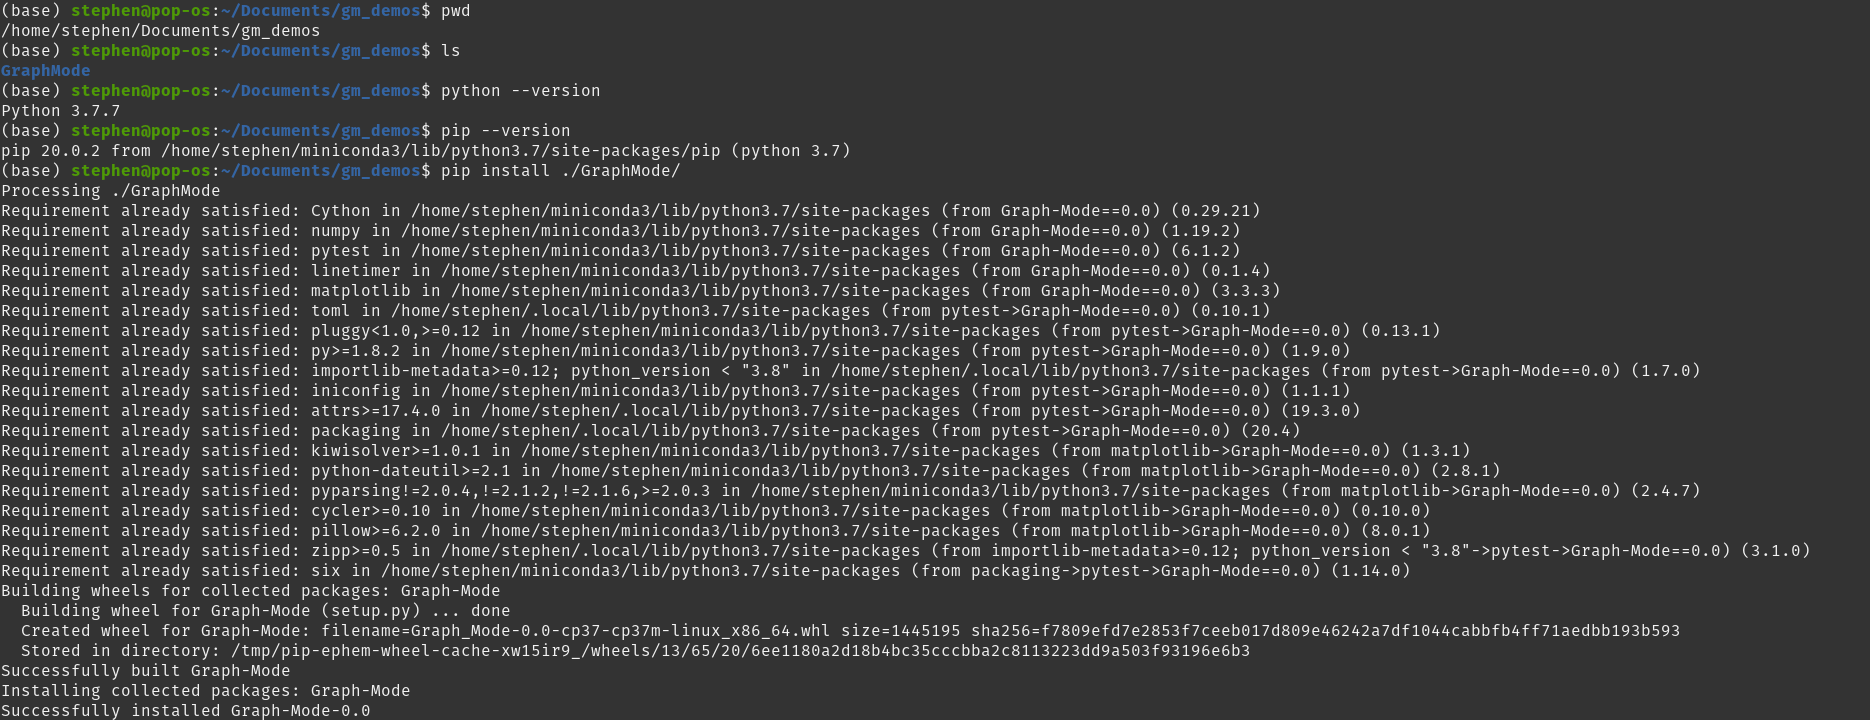
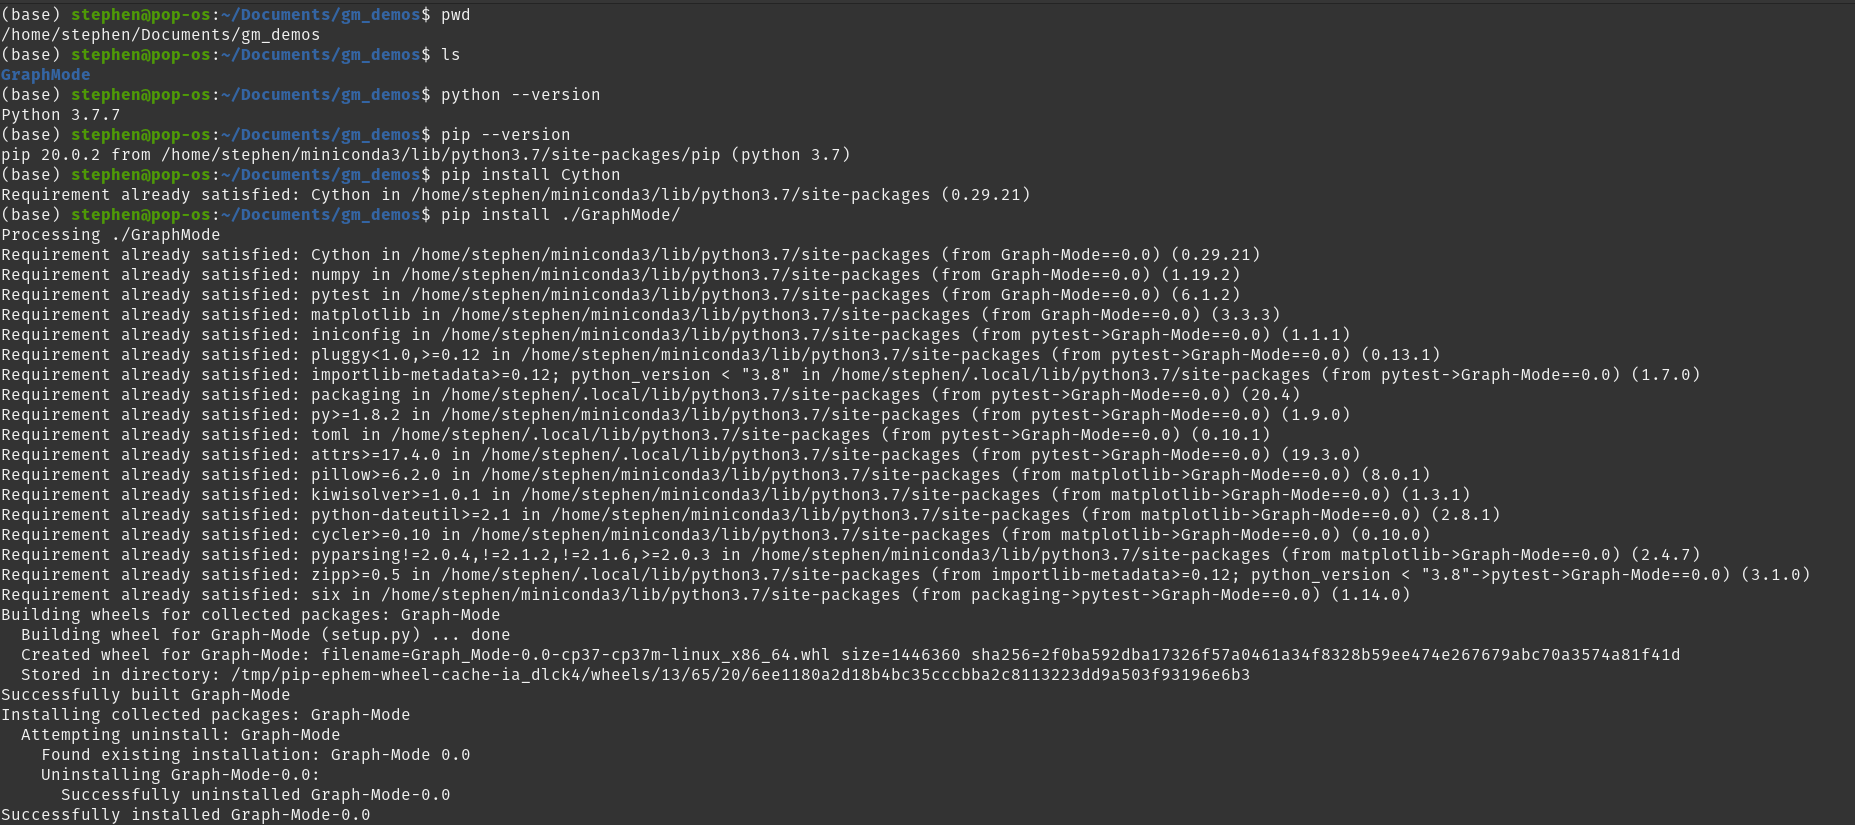
README.

Changed region(s): [[0.0, 0.0, 0.9526, 1.0]]

diff --git a/README.md b/README.md
@@ -10,9 +10,14 @@
 Python package-management system: `pip`  
 ![pic](resources/readme_pics/gm_demo4.png)   
 #### Commands:  
+`pip install Cython`  
+This will install a Cython compiler for you :)  
 `pip install ./GraphMode/`  
 This command will do everything for ya!  
 It will compile necessary Python codes into C codes and set up the software.  
+
+you may see something like "ERROR: After October 2020 you may experience..."  Please ignore that.  
+
 ![pic](resources/readme_pics/gm_demo1.png)    
 
 ### If you are a developer (If you wanna hack codes or run the tests using pytest):    
